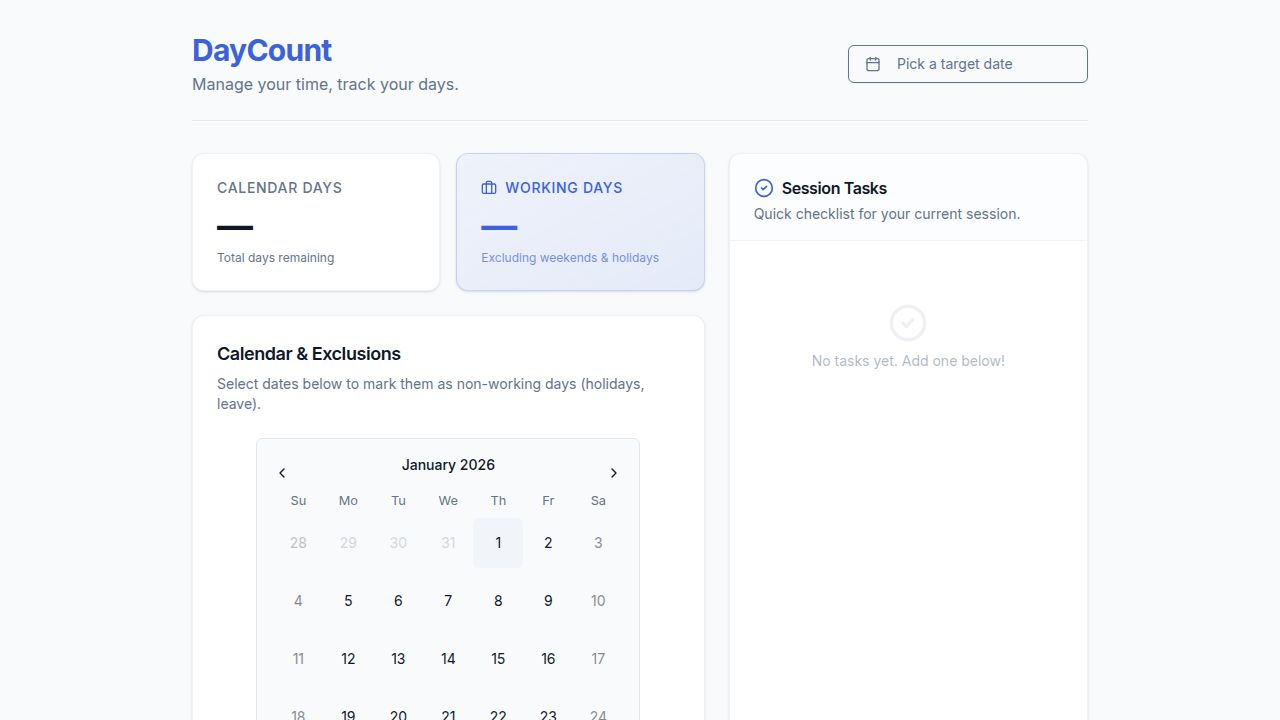
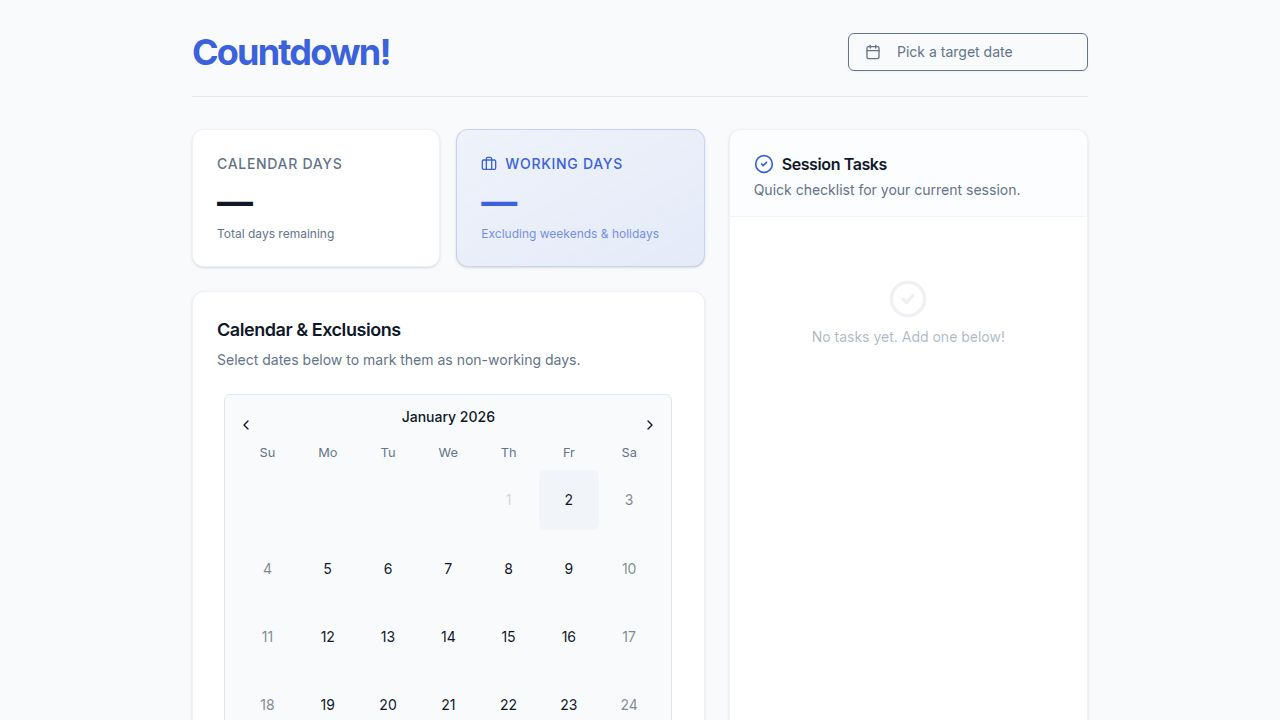
Rename application and improve calendar layout for better usability
Update application title and description metadata, and refactor the calendar component's UI and styling in `client/src/pages/home.tsx` to improve responsiveness and user experience on various screen sizes.

Replit-Commit-Author: Agent
Replit-Commit-Session-Id: 778d902f-bbed-4ca0-83a1-f2dd68ab648c
Replit-Commit-Checkpoint-Type: full_checkpoint
Replit-Commit-Event-Id: 8b0c96ef-e86e-4228-9482-444708012b03
Replit-Commit-Screenshot-Url: https://storage.googleapis.com/screenshot-production-us-central1/7419b595-f720-4358-8c18-ba5157357d7f/778d902f-bbed-4ca0-83a1-f2dd68ab648c/hum2gyD
Replit-Helium-Checkpoint-Created: true

diff --git a/client/src/pages/home.tsx b/client/src/pages/home.tsx
@@ -148,8 +148,7 @@ export default function Home() {
         {/* Header */}
         <header className="flex flex-col md:flex-row md:items-center justify-between gap-4 pb-6 border-b border-border">
           <div>
-            <h1 className="text-3xl font-bold tracking-tight text-primary">Workday Tracker</h1>
-            <p className="text-muted-foreground mt-1">Manage your time, track your days.</p>
+            <h1 className="text-4xl font-extrabold tracking-tighter text-primary">Countdown!</h1>
           </div>
           <div className="flex items-center gap-2">
             <Popover>
@@ -217,30 +216,29 @@ export default function Home() {
             </div>
 
             {/* Calendar & Exclusions */}
-            <Card className="shadow-sm border-border/60 overflow-hidden">
+            <Card className="shadow-sm border-border/60">
               <CardHeader>
                 <CardTitle className="text-lg">Calendar & Exclusions</CardTitle>
                 <CardDescription>
-                  Select dates below to mark them as non-working days (holidays, leave).
+                  Select dates below to mark them as non-working days.
                 </CardDescription>
               </CardHeader>
-              <CardContent className="px-2 sm:px-6 pb-6">
-                <div className="flex justify-center overflow-x-auto">
-                  <div className="min-w-fit">
-                    <Calendar
-                      mode="multiple"
-                      selected={excludedDatesObj}
-                      onSelect={(_, date) => toggleExclusion(date)}
-                      className="rounded-md border p-3 w-full"
-                      disabled={(date) => date < today}
-                      modifiers={{
-                        weekend: (date) => isSaturday(date) || isSunday(date)
-                      }}
-                      modifiersStyles={{
-                        weekend: { color: "var(--muted-foreground)", opacity: 0.5 }
-                      }}
-                    />
-                  </div>
+              <CardContent className="pb-6">
+                <div className="flex justify-center">
+                  <Calendar
+                    mode="multiple"
+                    selected={excludedDatesObj}
+                    onSelect={(_, date) => toggleExclusion(date)}
+                    className="rounded-md border p-3 w-full max-w-full sm:max-w-md pointer-events-auto"
+                    disabled={(date) => date < today}
+                    modifiers={{
+                      weekend: (date) => isSaturday(date) || isSunday(date)
+                    }}
+                    modifiersStyles={{
+                      weekend: { color: "var(--muted-foreground)", opacity: 0.5 }
+                    }}
+                    showOutsideDays={false}
+                  />
                 </div>
                 
                 {excludedDates.length > 0 && (

diff --git a/client/index.html b/client/index.html
@@ -4,13 +4,13 @@
     <meta charset="UTF-8" />
     <meta name="viewport" content="width=device-width, initial-scale=1.0, maximum-scale=1" />
 
-    <meta property="og:title" content="Workday Tracker" />
+    <meta property="og:title" content="Countdown!" />
     <meta property="og:description" content="Track your working days and tasks effortlessly." />
     <meta property="og:type" content="website" />
     <meta property="og:image" content="https://replit.com/public/images/opengraph.png" />
     <meta name="twitter:card" content="summary_large_image" />
     <meta name="twitter:site" content="@replit" />
-    <meta name="twitter:title" content="Workday Tracker" />
+    <meta name="twitter:title" content="Countdown!" />
     <meta name="twitter:description" content="Track your working days and tasks effortlessly." />
     <meta name="twitter:image" content="https://replit.com/public/images/opengraph.png" />
 
